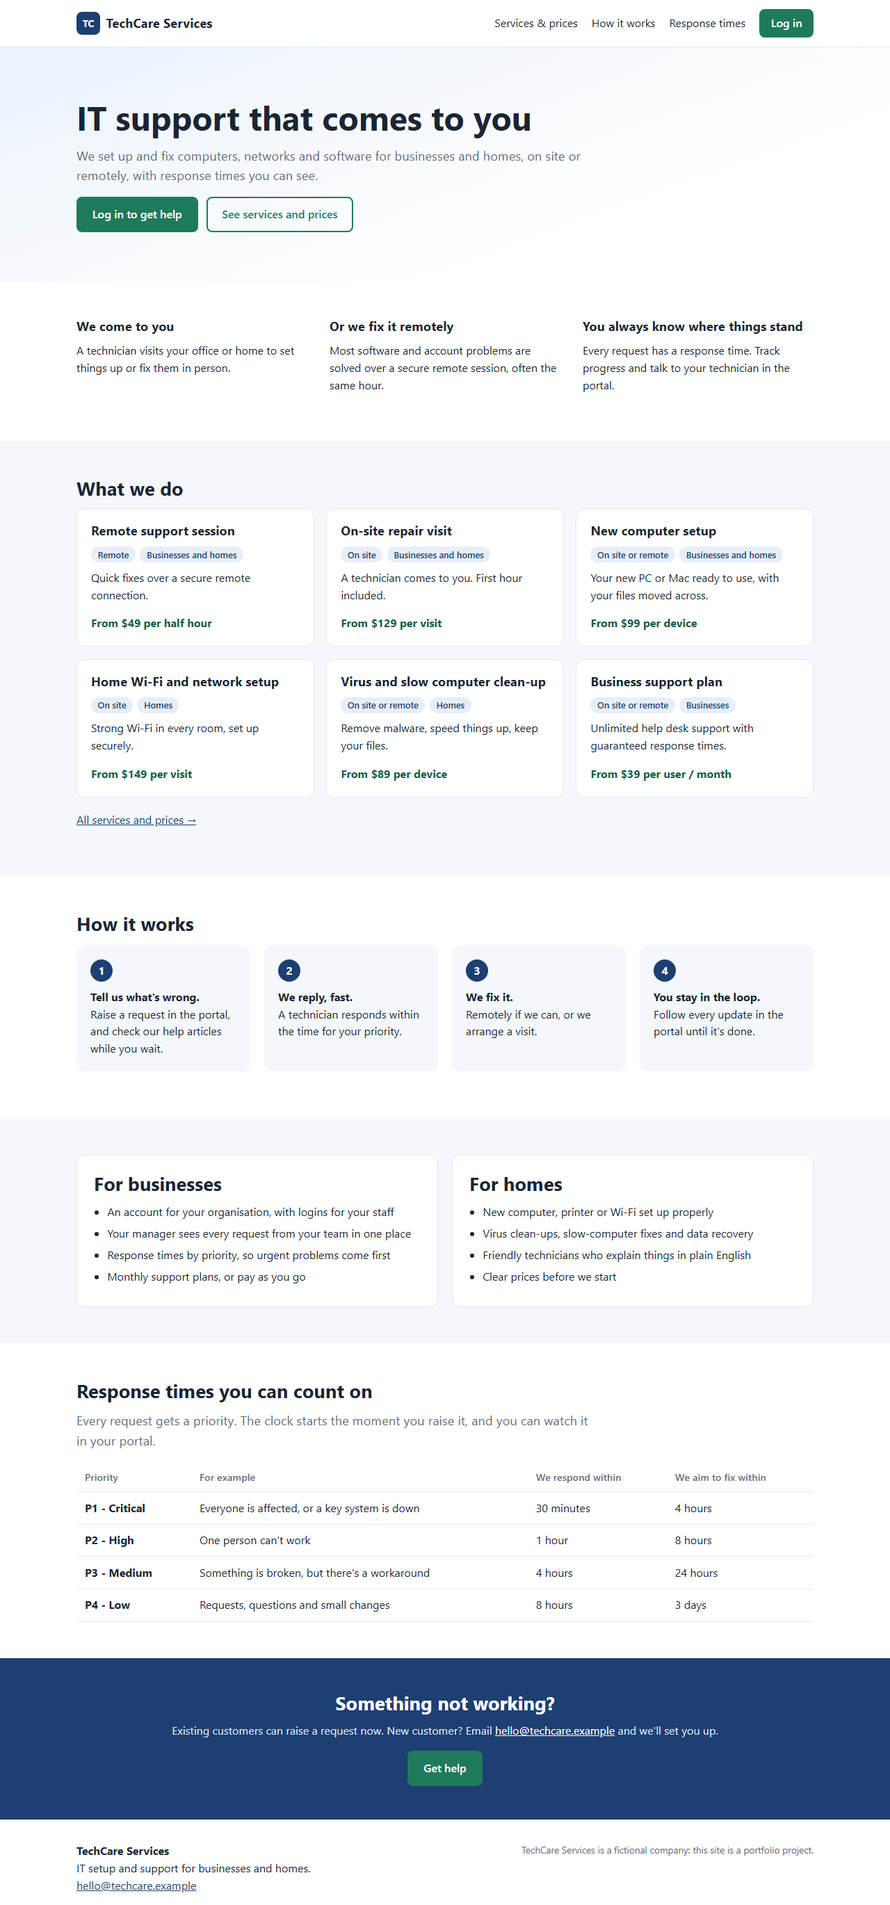
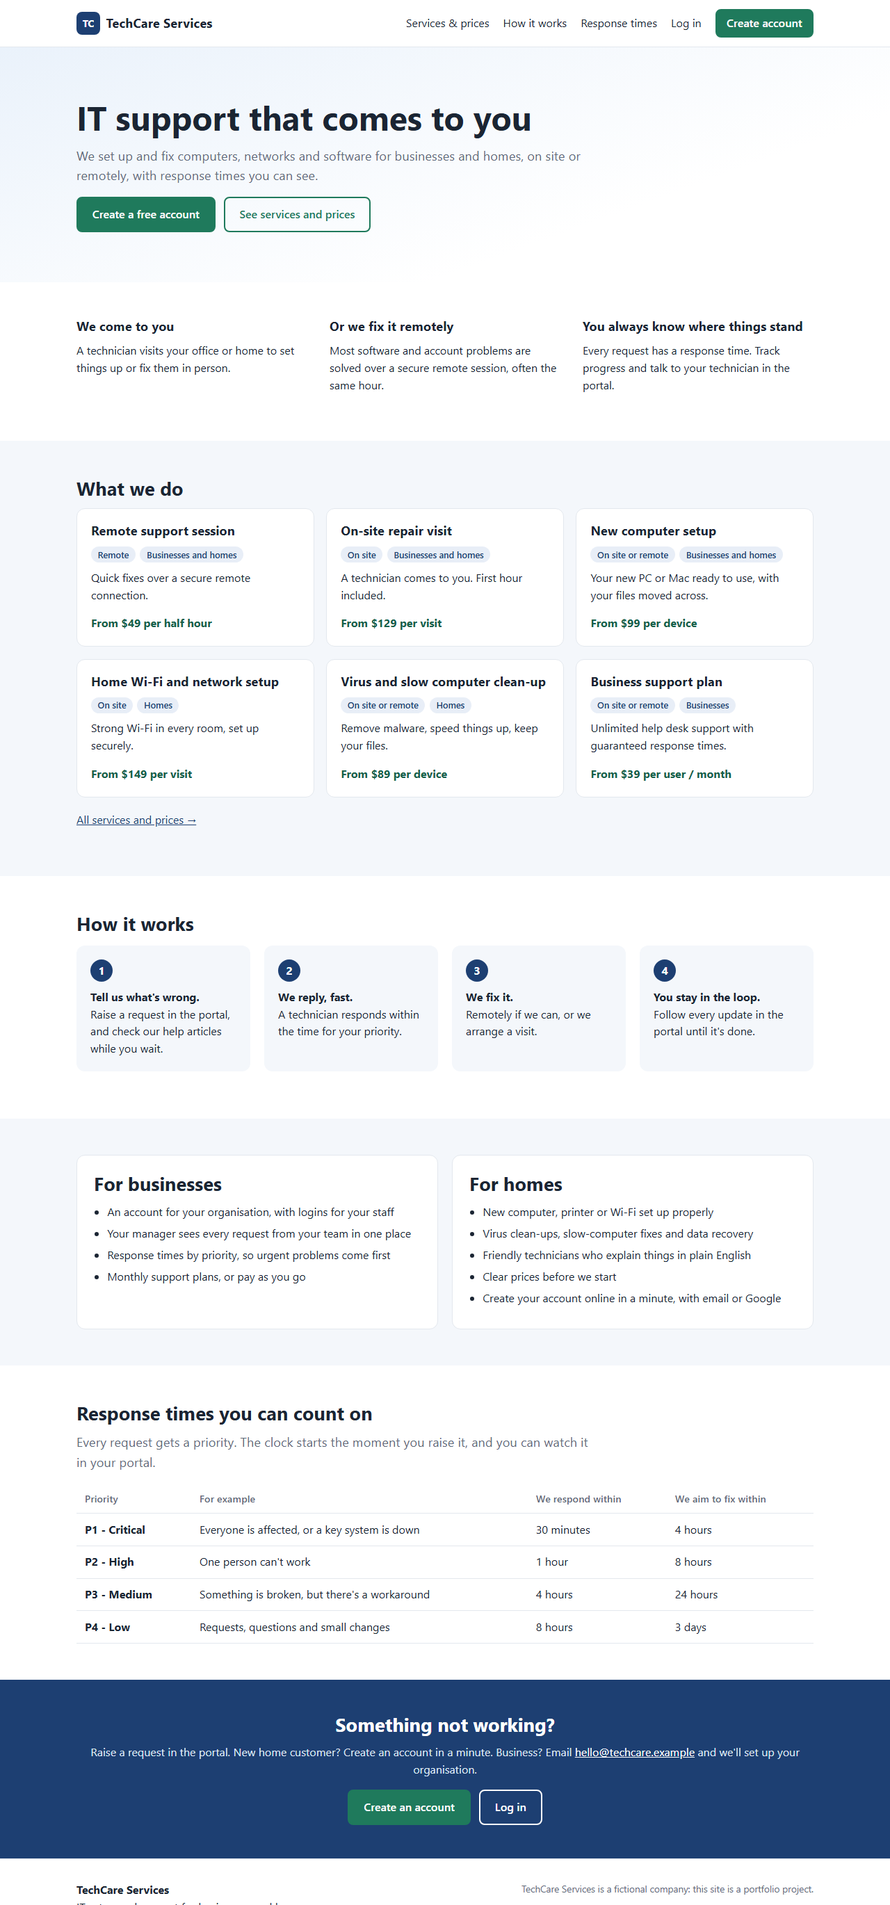
Document self sign-up and Google setup

diff --git a/docs/GUIDE.md b/docs/GUIDE.md
@@ -42,7 +42,7 @@ customers** (organisations) and **home customers**. There are two parts:
 
 | Role | Who | What they see |
 |---|---|---|
-| **Customer** | Someone at a business customer, or a home customer | Their own tickets, a "New ticket" form and the knowledge base |
+| **Customer** | Someone at a business customer (account created by TechCare), or a home customer (signed up themselves, with email or Google) | Their own tickets, a "New ticket" form and the knowledge base |
 | **Organisation manager** | A customer marked as manager of their organisation | Everything a customer sees, plus **every ticket raised by people in their organisation** |
 | **Technician** | TechCare staff (`is_staff` ticked) | The dashboard, every ticket, the update panel (status, priority, assignee) and internal notes |
 | **Admin** | TechCare staff who are also superusers | All of the above, plus the Django admin at `/admin/` (organisations, users, articles) |
@@ -66,7 +66,15 @@ python manage.py runserver
 ```
 
 Open http://127.0.0.1:8000. That's the **public website**. Look around: *Services &
-prices*, *How it works* and *Response times*. Then click **Log in** and follow this script:
+prices*, *How it works* and *Response times*.
+
+**Sign up as a new home customer:** click **Create account**, fill in a made-up name, an
+address like `you@example.com` and a password. The page says a verification email was sent.
+Look in the terminal running `runserver`: the email is printed there, with a
+`/accounts/confirm-email/...` link. Open the link and click **Confirm**. You're logged in, on
+*My tickets*, as a customer with no organisation.
+
+Then log out, click **Log in** and follow this script:
 
 The demo has these people (all fictional):
 
@@ -153,14 +161,17 @@ helpdesk/
   signals.py              creates a Profile whenever a user is created
   views.py                one function per page
   urls.py                 the addresses of those pages
-  forms.py                new ticket, update ticket, add comment
+  forms.py                new ticket, update ticket, add comment, sign-up extra fields
+  accounts.py             trust_email() for TechCare-created accounts, display_name()
   permissions.py          @staff_required
   admin.py                how the models appear in /admin/ (users with their profile)
   templatetags/
     helpdesk_tags.py      {% sla_badge %}, {% priority_badge %}, |person, |role_label
   templates/
     base.html             header and menu shared by every page
-    registration/login.html
+    account/              our versions of allauth's pages: login.html, signup.html,
+                          _google_button.html, email/ (the verification email text)
+    allauth/layouts/base.html   makes allauth's other pages use base.html
     helpdesk/*.html       dashboard, ticket list/detail/form, knowledge base
   static/helpdesk/style.css   the only stylesheet
   management/commands/seed_demo.py   fills the database with demo data
@@ -407,13 +418,13 @@ database queries.
 
 ## 10. Tests and CI
 
-Run all 78 tests:
+Run all 94 tests:
 
 ```bash
 python manage.py test
 ```
 
-You should see `Ran 78 tests ... OK`. Each test creates its own empty test database, so
+You should see `Ran 94 tests ... OK`. Each test creates its own empty test database, so
 your real data is never touched.
 
 | File | What it checks |
@@ -421,6 +432,7 @@ your real data is never touched.
 | `tests/test_sla.py` | Every SLA rule and boundary (exactly 25% left, exactly at the deadline, ...) and the "2h 15m left" text |
 | `tests/test_models.py` | Deadlines on create and on priority change, resolved/reopened, first-response rules, `open()` and `visible_to()` |
 | `tests/test_views.py` | Login redirects, 403/404 rules, raising/updating/commenting, internal-note privacy, list filters and order, dashboard counts, knowledge-base search |
+| `tests/test_accounts.py` | Sign-up makes a home customer and sends a branded verification email, no login before confirming, confirming logs in, sign-up can't make staff or join an organisation, existing emails aren't revealed, weak passwords refused, login by username or email, logout, password reset, trusted emails for admin-created users, the Google button only when configured and that it redirects to Google |
 | `tests/test_organisations.py` | Profiles are created automatically, the four roles, which tickets each role can see/open/comment on, managers still blocked from staff pages, staff filter by customer, dashboard per-customer counts, admin pages |
 | `tests/test_seed_demo.py` | The demo data covers every SLA state, every customer type and the price list, the password option, and refusing to seed twice |
 | `website/tests.py` | The public pages work without logging in, show only active services (at most 6 on the home page), group them for businesses and homes, show response times taken from `sla.py`, the "From $129 per visit" price format, and that login goes to the portal and logout back to the website |
@@ -463,6 +475,17 @@ A green badge on the README means every step passed for the latest commit.
 - **Templates escape everything** by default. A ticket titled `<script>` shows as text and
   doesn't run.
 - The **demo password** is generated randomly by `seed_demo` and never stored in the code.
+- **Accounts are handled by django-allauth**, a widely used, maintained package, rather than
+  home-made login code. It brings:
+  - **email verification** before anyone can log in
+  - **rate limits** on login attempts and emails (stored in Django's cache)
+  - **enumeration protection:** the sign-up and password-reset pages never reveal whether an
+    email address already has an account
+  - Django's **password strength rules**
+- **Google keys** (`GOOGLE_CLIENT_ID`, `GOOGLE_CLIENT_SECRET`) live in `.env`, like the secret
+  key. See [GOOGLE_SIGN_IN.md](GOOGLE_SIGN_IN.md).
+- **Emails** go to the terminal in development (`DJANGO_EMAIL_BACKEND` defaults to the
+  console backend). A real deployment would set an SMTP backend in `.env`.
 
 Before putting this on the internet you'd also want HTTPS, secure cookies, a real
 database (PostgreSQL) and a production web server. That's out of scope for this demo.
@@ -487,8 +510,16 @@ python manage.py createsuperuser
    choose the organisation and tick *Organisation manager* for their main contact. Save.
 4. Repeat step 2 and 3 for each person (without the manager tick).
 
-The organisation's page now lists its members. A home customer is just a user with no
-organisation (and later, with feature 3, they sign up themselves).
+The organisation's page now lists its members. **Give everyone an email address:** login
+uses it, and because a TechCare admin typed it in, it counts as verified straight away
+(the admin shows a warning if you save someone without one). Home customers usually sign
+up themselves on the website, but an admin can also create one: just leave the
+organisation empty.
+
+**Turn on "Sign in with Google":** follow [GOOGLE_SIGN_IN.md](GOOGLE_SIGN_IN.md).
+
+**See the emails the app sends** (verification, password reset): they're printed in the
+terminal running `runserver`.
 
 **Add a category or knowledge-base article:** `/admin/`, then *Categories* or *Articles*,
 then *Add*. The slug fills itself in from the title.
@@ -520,7 +551,8 @@ Questions you may get, with short answers in your own words:
 It's the customer portal for an IT services company, built in Django. Business and home
 customers raise tickets, technicians work them against SLA targets per priority, there's a
 knowledge base for self-service and a dashboard that shows what's breached or at risk.
-It has four roles, from customer up to admin, 78 automated tests and CI on GitHub. There's also a public website that
+Home customers sign up themselves with email or Google. It has four roles, from customer
+up to admin, 94 automated tests and CI on GitHub. There's also a public website that
 reads its prices and response times from the same data the portal uses.
 
 **"How do the SLA timers work?"**
@@ -552,6 +584,15 @@ Because people move. If Casey leaves Northside, Casey's old tickets still belong
 Northside, and Northside's manager should still see them. It also makes "all tickets for this
 customer" a simple filter.
 
+**"How does sign-up work, and how do you stop fake accounts?"**
+I used django-allauth rather than writing login code myself. People sign up with name, email
+and password, or with Google. They must click a link in a verification email before they can
+log in, so nobody can register with someone else's address. allauth also rate-limits login
+attempts and never reveals whether an email address is already registered. Self sign-ups are
+always home customers: the form has no organisation or staff fields, and there's a test that
+tries to sneak them in. Business accounts are created by TechCare, and because staff typed the
+address, it's trusted without a verification email.
+
 **"What would you add next?"**
 Business-hours SLAs, pausing the clock while waiting on the customer, email notifications,
 self sign-up and on-site bookings. Most of that is on the roadmap below.
@@ -580,6 +621,10 @@ service-operation ideas.
 | **Profile** | A table linked one-to-one to the user table, for extra details Django's user doesn't have |
 | **Signal** | Code Django runs automatically when something happens, e.g. "after a user is saved" |
 | **Data migration** | A migration that changes data rather than table structure (here: create missing profiles) |
+| **OAuth / "Sign in with Google"** | The user signs in at Google, and Google tells our app who they are. Our app never sees their Google password |
+| **Email verification** | Proving you own an address by clicking a link sent to it |
+| **Account enumeration** | Finding out which emails have accounts by watching how a form responds. allauth's pages respond the same either way |
+| **Rate limiting** | Refusing too many attempts in a short time, e.g. password guessing |
 
 ## 15. Roadmap: TechCare Services
 
@@ -589,8 +634,7 @@ customer portal, one feature at a time, each with tests and an update to this gu
 
 1. ~~**Organisations and roles.**~~ **Done.** See [16.1](#161-feature-1-organisations-and-roles).
 2. ~~**Company website.**~~ **Done.** See [16.2](#162-feature-2-the-techcare-website).
-3. **Self sign-up.** Home customers create an account with email, or with
-   *Sign in with Google*.
+3. ~~**Self sign-up.**~~ **Done.** See [16.3](#163-feature-3-self-sign-up-with-email-or-google).
 4. **Book a technician visit.** Choose a service, an address and a time slot. Technicians
    see their schedule.
 5. **Service charges.** A price list and a quote on every booking. No real payments.
@@ -702,3 +746,68 @@ promise. Existing customers click *Log in* to reach the portal.
 
 **How to check it yourself:** open http://127.0.0.1:8000, click around the website, then
 follow step 10 of the demo script in [section 2](#2-try-it-in-5-minutes) to change a price.
+
+### 16.3 Feature 3: Self sign-up with email or Google
+
+**Goal.** Home customers can create their own account on the website, with email and
+password or with *Sign in with Google*, and start raising tickets. Business customers'
+accounts are still created by TechCare.
+
+**What changed**
+
+| File | Change |
+|---|---|
+| `requirements.txt` | Added `django-allauth[socialaccount]` (it brings `requests`, `PyJWT` and `cryptography` for Google) |
+| `config/settings.py` | allauth apps, middleware and authentication backend, plus the account settings (login by email or username, sign-up fields, **mandatory email verification**, branded emails, Google keys read from `.env`) |
+| `config/urls.py` | `/accounts/` now comes from allauth (login, logout, sign-up, confirm email, password reset, Google callback) |
+| `helpdesk/forms.py` | `SignupDetailsForm`: first and last name on the sign-up page |
+| `helpdesk/accounts.py` (new) | `trust_email()` and `display_name()` |
+| `helpdesk/admin.py` | Saving a user trusts their email, or warns if there is none |
+| `templates/account/` (new) | Our login and sign-up pages, the Google button and the verification email text |
+| `templates/allauth/layouts/base.html` (new) | allauth's other pages use the portal layout |
+| templates, CSS | *Log in* / *Create account* links on the website and portal, and the auth page styles |
+| `seed_demo.py` | Demo users' emails are trusted, so they can log in straight away |
+| `docs/GOOGLE_SIGN_IN.md` (new) | Click-by-click Google Cloud setup |
+| `tests/test_accounts.py` (new) | 16 tests (section 10) |
+
+**Decisions and why**
+
+1. **django-allauth instead of writing it myself.** Sign-up, verification links, password
+   reset, rate limiting and OAuth are easy to get subtly wrong, and mistakes become security
+   holes. allauth is the standard, maintained Django package for all of it. Our code only
+   customises it: settings, templates and one small form.
+2. **Email verification is mandatory.** Without it, anyone could register with someone
+   else's address and raise tickets in their name. allauth won't log anyone in until the
+   link in the verification email has been clicked.
+3. **But accounts created by TechCare are trusted.** allauth applies the rule to everyone.
+   Business users and technicians are created by an admin who typed the address in, and they
+   shouldn't get a surprise "verify your email" on their first login. If no address was
+   entered, they'd be stuck for good. `trust_email()` marks the address as verified when staff
+   save a user in the admin, and the seed does the same for the demo users. That keeps "staff
+   vouch for it" in one small, tested function.
+4. **Sign-up can only create home customers.** The form has name, email and password. There
+   is no organisation, staff or manager field, so there's nothing to tamper with, and a
+   test posts those fields anyway to prove they're ignored.
+5. **Log in with email *or* username.** Self sign-ups use their email (allauth generates a
+   username behind the scenes). Existing staff and demo accounts keep their usernames.
+6. **The Google button only appears when keys are configured.** Without keys the app still
+   works fully with email. With keys in `.env` (never in code), the button appears and the
+   flow goes to Google and back. The button is a POST form, not a link, which allauth
+   requires so other websites can't start a login on your behalf.
+7. **Emails print to the terminal in development** (Django's console email backend), so the
+   whole flow can be tried without an email account. A real server would set an SMTP backend
+   in `.env`.
+8. **Branding and names.** Emails say TechCare Services instead of `127.0.0.1:8000`, and
+   messages say "signed in as Alex Rivera" instead of the generated username
+   (`ACCOUNT_USER_DISPLAY`).
+
+**Things the tests taught me**
+
+- allauth rate-limits emails using Django's cache, which carries over between tests. The
+  sign-up tests clear the cache first, otherwise only the first test gets its email.
+- Signing up with an email that already has an account looks like a normal sign-up. That's
+  allauth's *enumeration protection*: the real owner gets an email instead. The test checks
+  for exactly that.
+
+**How to check it yourself:** the sign-up steps at the start of
+[section 2](#2-try-it-in-5-minutes). For Google, follow [GOOGLE_SIGN_IN.md](GOOGLE_SIGN_IN.md).

diff --git a/README.md b/README.md
@@ -20,6 +20,9 @@ file, the data model, the SLA rules, permissions, a demo script and interview ta
 - **Public website** at `/`: what TechCare does for businesses and homes, how it works, a
   services and prices page (`/services/`) managed in the admin, and the response-time table,
   which is read from the same SLA rules the tickets use.
+- **Self sign-up** for home customers, with email and password or **Sign in with Google**
+  (django-allauth). The email must be verified before the first login. Business customers'
+  accounts are created by TechCare in the admin.
 - **Tickets** have a priority (P1 to P4), a status (New, In progress, Waiting on requester,
   Resolved, Closed), a category and an assignee. The conversation thread supports
   **internal notes** that only TechCare staff can see.
@@ -56,6 +59,11 @@ An organisation manager sees their whole organisation's tickets, and nobody else
 
 ![Organisation manager's view](docs/manager-tickets.png)
 
+Creating a home customer account (the verification email is printed in the server terminal
+during development):
+
+![Sign up](docs/signup.png)
+
 Knowledge base search, as a customer sees it:
 
 ![Knowledge base](docs/kb.png)
@@ -79,8 +87,9 @@ python manage.py seed_demo    # fictional demo data; prints the demo password
 python manage.py runserver
 ```
 
-Open http://127.0.0.1:8000 for the website, then click **Log in** to reach the portal
-(`/portal/`). Log in as:
+Open http://127.0.0.1:8000 for the website. Click **Create account** to sign up as a new
+home customer: the verification email, with its link, is printed in the terminal running
+`runserver`. Or click **Log in** and use a demo account:
 
 - `jordan.lee`, technician (dashboard, all tickets)
 - `sam.taylor`, manager at Northside Dental Clinic (all of Northside's tickets)
@@ -88,9 +97,14 @@ Open http://127.0.0.1:8000 for the website, then click **Log in** to reach the p
 - `alex.chen`, home customer
 - `helpdesk.admin`, admin (also has the Django admin at `/admin/`)
 
-`seed_demo` generates a random password and prints it once. Pass `--password` to choose one,
+Demo accounts log in with their username (or `username@example.com`). `seed_demo` generates
+a random password and prints it once. Pass `--password` to choose one,
 or `--reset` to replace existing demo data. All demo people, emails (`@example.com`) and
 tickets are made up.
+
+**Optional: Sign in with Google.** Put a Google OAuth client ID and secret in `.env`, and the
+button appears on the login and sign-up pages. Step-by-step:
+[docs/GOOGLE_SIGN_IN.md](docs/GOOGLE_SIGN_IN.md).
 
 ## How it is built
 
@@ -143,6 +157,10 @@ Design choices:
   of its own: services are rows an admin edits, and the response-time table is generated from
   `sla.py`, so the published promise always matches what the portal measures. The portal
   sits under `/portal/`. Every link uses a named URL, so moving it was a one-line change.
+- **Accounts use django-allauth, not home-made login code.** Self sign-ups must verify their
+  email before logging in, logins and emails are rate-limited, and the forms never reveal
+  whether an address is registered. Accounts created by TechCare staff are trusted
+  (`helpdesk/accounts.py`), so business users aren't asked to verify an address an admin typed in.
 - **Configuration comes from environment variables.** `SECRET_KEY` is required, `DEBUG`
   defaults to off, and `.env` is never committed (see `.env.example`).
 
@@ -156,9 +174,9 @@ python manage.py test
 ruff check . && ruff format --check .
 ```
 
-There are 78 tests. They cover every SLA rule and boundary, due dates and priority changes,
+There are 94 tests. They cover every SLA rule and boundary, due dates and priority changes,
 first-response rules, what each of the four roles can see, comment on or update (including
-one customer never seeing another's tickets), internal-note privacy,
+one customer never seeing another's tickets), sign-up, email verification and login, internal-note privacy,
 ticket list filters and ordering, dashboard counts and compliance, knowledge-base search and
 drafts, the public website pages, and the demo seed command. Test runs use a fast password hasher so the suite takes
 under a second. GitHub Actions runs `manage.py check`, a missing-migrations check, ruff and the

diff --git a/docs/GOOGLE_SIGN_IN.md b/docs/GOOGLE_SIGN_IN.md
@@ -1,0 +1,77 @@
+# Turning on "Sign in with Google"
+
+The app works without this: people sign up with email and password. These steps add the
+**Continue with Google** button to the login and sign-up pages. It takes about 10 minutes and
+is free. You need a Google account.
+
+## 1. Create a Google Cloud project
+
+1. Go to https://console.cloud.google.com/ and sign in.
+2. Click the project picker at the top of the page, then **New project**.
+3. Name it something like `TechCare portal demo`, then click **Create** and wait for the
+   notification. Make sure the new project is selected in the picker.
+
+## 2. Set up the consent screen
+
+This is the screen people see when Google asks "Allow TechCare Services to see your email
+address?".
+
+1. In the search bar, type **Google Auth Platform** and open it. Click **Get started**.
+2. **App information:** app name `TechCare Services (demo)`, and choose your email as the
+   user support email. Click **Next**.
+3. **Audience:** choose **External**. Click **Next**.
+4. **Contact information:** your email. Click **Next**, tick the agreement, then **Create**.
+5. Open **Audience** in the left menu. Under **Test users**, click **Add users** and add the
+   Gmail address(es) you'll test with. While the app is in *Testing* mode, **only these
+   people can sign in**. That's fine for a demo, and nobody else can use your app.
+
+The app only asks for the basic `openid`, `email` and `profile` scopes, so Google doesn't
+need to review it.
+
+## 3. Create the OAuth client
+
+1. Open **Clients** in the left menu, then click **Create client**.
+2. **Application type:** *Web application*. **Name:** `TechCare local`.
+3. Under **Authorized JavaScript origins**, add both:
+   - `http://127.0.0.1:8000`
+   - `http://localhost:8000`
+4. Under **Authorized redirect URIs**, add both:
+   - `http://127.0.0.1:8000/accounts/google/login/callback/`
+   - `http://localhost:8000/accounts/google/login/callback/`
+5. Click **Create**. A box shows the **Client ID** and **Client secret**. Copy both (you can
+   come back to the client later to see them again).
+
+## 4. Give the keys to the app
+
+1. Open the `.env` file in the project folder (create it from `.env.example` if you haven't).
+2. Fill in the two lines:
+
+   ```text
+   GOOGLE_CLIENT_ID=1234567890-abc...apps.googleusercontent.com
+   GOOGLE_CLIENT_SECRET=GOCSPX-...
+   ```
+
+3. Stop the server (Ctrl+C) and start it again with `python manage.py runserver`. Settings
+   are read once at start-up.
+4. Open http://127.0.0.1:8000/accounts/login/. The **Continue with Google** button is there.
+   Click it, pick one of your test users and allow access. You land in the portal as a new
+   home customer.
+
+## Keep the secret secret
+
+- `.env` is in `.gitignore`, so git won't commit it. Never paste the secret into code, a
+  README, an issue or a chat.
+- If the secret ever leaks, open the client in Google Cloud, **add a new secret**, update
+  `.env`, then delete the old secret.
+- The demo runs on `http://` locally. A real deployment must use `https://`, and its own
+  address added to the origins and redirect URIs.
+
+## If something goes wrong
+
+| What you see | Why, and the fix |
+|---|---|
+| No Google button | One of the two `.env` values is empty, or the server wasn't restarted |
+| `Error 400: redirect_uri_mismatch` | The address in your browser doesn't match a redirect URI exactly. Use the same host you registered (`127.0.0.1` vs `localhost`), with the port and the trailing `/` |
+| `Access blocked: ... has not completed the Google verification process` | The Google account isn't in **Test users** (step 2.5) |
+| Signed in with Google but asked to sign up | Normal the first time: allauth may ask you to confirm details before creating the account |
+| An account with that email already exists | The address was already used for an email sign-up. Log in with the password instead. allauth doesn't join the two accounts automatically, which stops someone taking over an account through a Google account with the same address |
